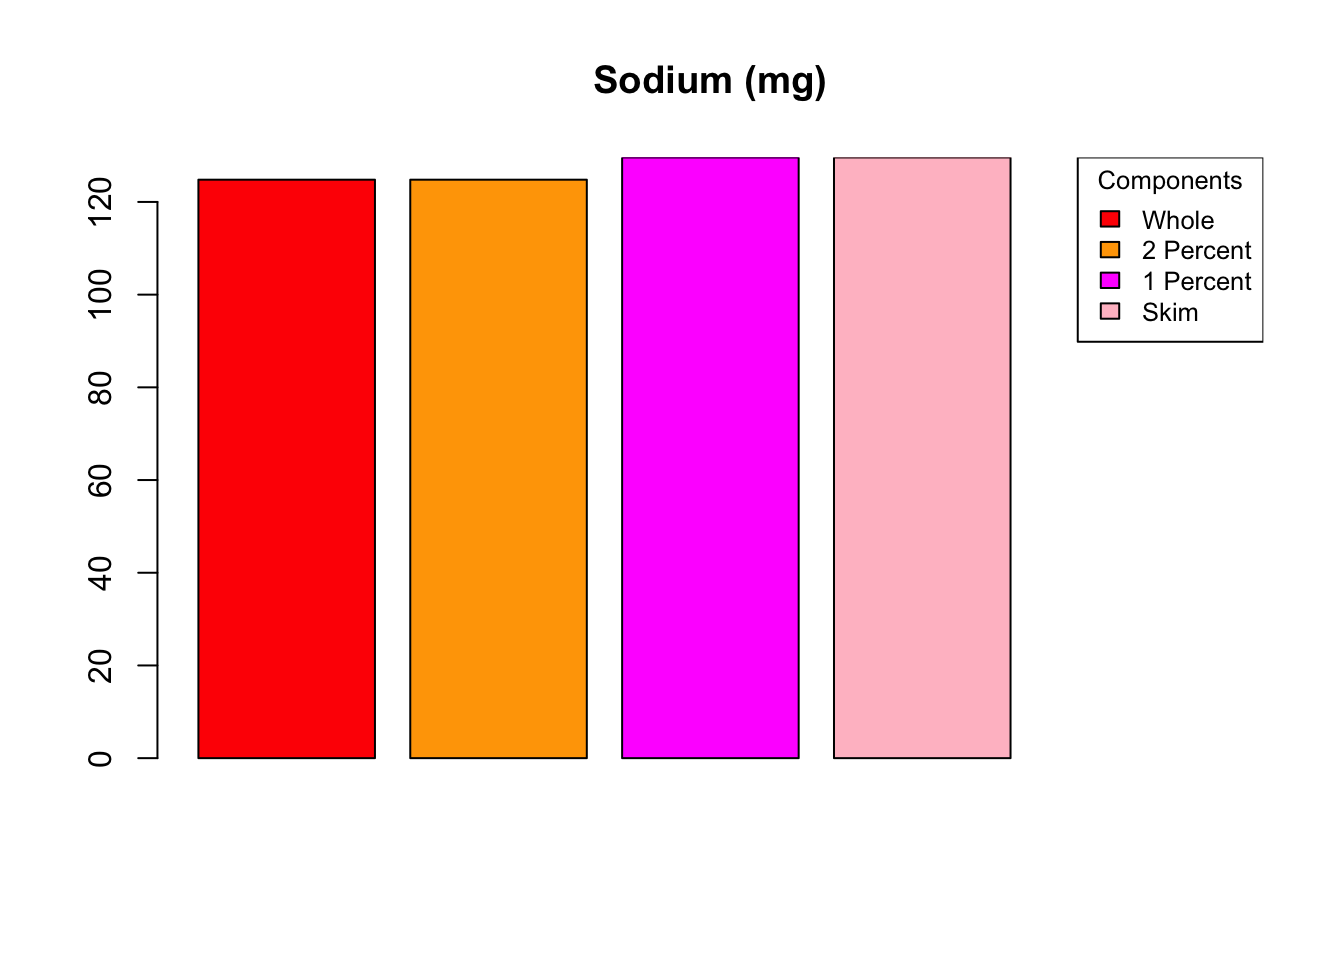
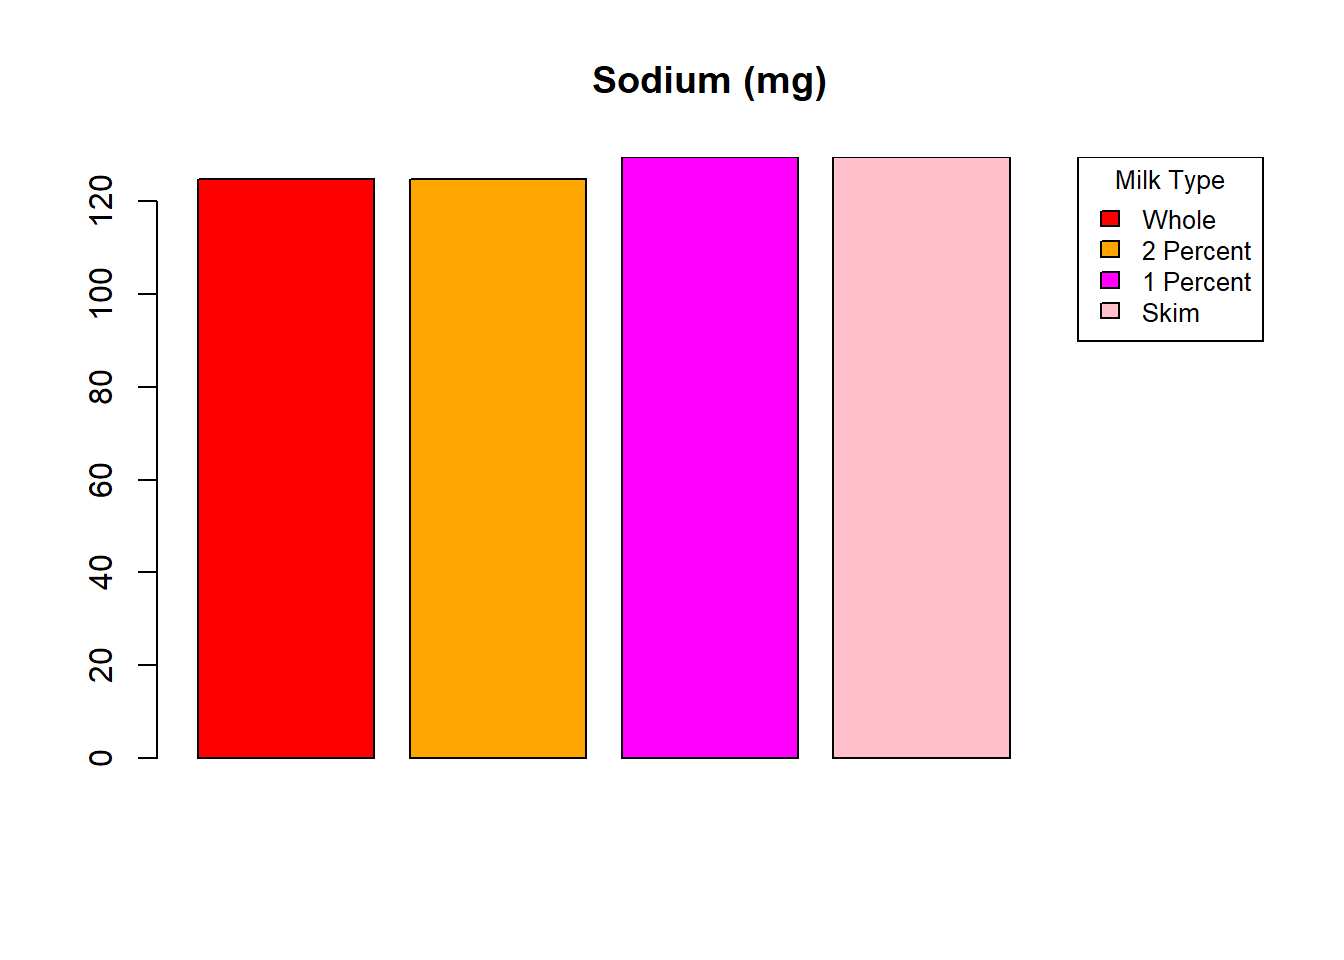
Bar plot draft 1

diff --git a/nutri.html b/nutri.html
@@ -10,7 +10,6 @@
 
 
 
-<meta name="date" content="2024-11-28" />
 
 <title>Nutrition</title>
 
@@ -303,7 +302,6 @@ $(document).ready(function () {
 
 
 <h1 class="title toc-ignore">Nutrition</h1>
-<h4 class="date">2024-11-28</h4>
 
 </div>
 
@@ -318,12 +316,11 @@ nutri_d &lt;- nutri |&gt;
   select(c(1,6)) |&gt;
   filter(mean_diff != 0)
 print(nutri_d)</code></pre>
-<pre><code>##   Nutritional Components     mean_diff
-## 1               Calories  3.866667e+01
-## 2           Calcium (mg)  5.040000e+01
-## 3            Sodium (mg) -3.200000e+00
-## 4            Protein (g) -8.881784e-16
-## 5       Cholesterol (mg)  1.840000e+01</code></pre>
+<pre><code>##   Nutritional Components mean_diff
+## 1               Calories  38.66667
+## 2           Calcium (mg)  50.40000
+## 3            Sodium (mg)  -3.20000
+## 4       Cholesterol (mg)  18.40000</code></pre>
 <p>We calculated the mean of the nutritional components for whole, 2%
 and 1% milk and subtracted the corresponding component for skim milk. If
 this mean difference is not 0 it means that there is some difference
@@ -343,7 +340,7 @@ for (i in rows_to_plot) {
   for (j in seq_along(values)) { if (values[j] != 0) { 
     rect(bar_pos[j] - 0.5, 0, bar_pos[j] + 0.5, values[j], border = &quot;black&quot;) } 
     } 
-  legend(&quot;topright&quot;, legend = legend_labels, fill = bc[-length(bc)], title = &quot;Components&quot;, cex = 0.8)
+  legend(&quot;topright&quot;, legend = legend_labels, fill = bc[-length(bc)], title = &quot;Milk Type&quot;, cex = 0.8)
 }</code></pre>
 <p><img src="nutri_files/figure-html/unnamed-chunk-2-1.png" width="672" /><img src="nutri_files/figure-html/unnamed-chunk-2-2.png" width="672" /><img src="nutri_files/figure-html/unnamed-chunk-2-3.png" width="672" /><img src="nutri_files/figure-html/unnamed-chunk-2-4.png" width="672" /></p>
 <p>There is a decreasing trend as we go towards the lower fat options
@@ -357,7 +354,7 @@ plot.new()
 title(main=&quot;Cholesterol Intake /cup for a 2000 calorie diet&quot;, cex.main=2, font.main=2)
 percentages &lt;- c(12, 6, 5, 2)
 titles &lt;- c(&quot;Whole Milk&quot;, &quot;2% Milk&quot;, &quot;1% Milk&quot;, &quot;Skim Milk&quot;)
-colors &lt;- c(&quot;red&quot;, &quot;white&quot;)
+colors &lt;- c(&quot;coral&quot;, &quot;white&quot;)
 
 par(mar=c(4, 4, 2, 2)) # Adjusting margins
 
@@ -372,6 +369,49 @@ Accompany the individual cholesterol with the fact that most people will
 use milk in some way and not just drink it straight up implies that the
 way they consume it (through cereal or drinks) would increase their
 cholesterol intake due to what they added.</p>
+<pre class="r"><code>data1 &lt;- data.frame(
+  Variable = factor(titles, levels = titles),  
+  Percentage = c(10, 6, 3, 0)
+)
+
+data2 &lt;- data.frame(
+  Variable = factor(titles, levels = titles),  
+  Percentage = c(25, 15, 7, 0)
+)
+
+colors &lt;- c(&quot;Whole Milk&quot; = &quot;red&quot;, &quot;2% Milk&quot; = &quot;orange&quot;, &quot;1% Milk&quot; = &quot;magenta&quot;, &quot;Skim Milk&quot; = &quot;pink&quot;)
+
+plot1 &lt;- ggplot(data1, aes(x = Variable, y = Percentage, fill = Variable)) +
+  geom_bar(stat = &quot;identity&quot;) +
+  scale_fill_manual(values = colors) +
+  scale_y_continuous(limits = c(0, 30), breaks = seq(0, 28, by = 4)) +
+  theme_minimal() +
+  labs(title = &quot;Total Fat&quot;, x = &quot;&quot;, y = &quot;% of Daily Value for 2000 Cal. Diet&quot;) +
+  theme(plot.title = element_text(hjust = 0.5), legend.position = &quot;none&quot;)
+
+plot2 &lt;- ggplot(data2, aes(x = Variable, y = Percentage, fill = Variable)) +
+  geom_bar(stat = &quot;identity&quot;) +
+  scale_fill_manual(values = colors) +
+  scale_y_continuous(limits = c(0, 30), breaks = seq(0, 28, by = 4)) +
+  theme_minimal() +
+  labs(title = &quot;Saturated Fat&quot;, x = &quot;&quot;, y = &quot;&quot;) +
+  theme(plot.title = element_text(hjust = 0.5), legend.position = &quot;none&quot;)
+
+get_legend &lt;- function(myplot) {
+  tmp &lt;- ggplot_gtable(ggplot_build(myplot))
+  leg &lt;- which(sapply(tmp$grobs, function(x) x$name) == &quot;guide-box&quot;)
+  legend &lt;- tmp$grobs[[leg]]
+  return(legend)
+}
+
+legend &lt;- get_legend(ggplot(data1, aes(x = Variable, y = Percentage, fill = Variable)) +
+                       geom_bar(stat = &quot;identity&quot;) +
+                       scale_fill_manual(values = colors) +
+                       theme_minimal() +
+                       labs(fill = &quot;Milk Type&quot;))
+
+grid.arrange(plot1, plot2, legend, ncol = 3, widths = c(2.5, 2.5, 1))</code></pre>
+<p><img src="nutri_files/figure-html/unnamed-chunk-4-1.png" width="672" /></p>
 
 
 
